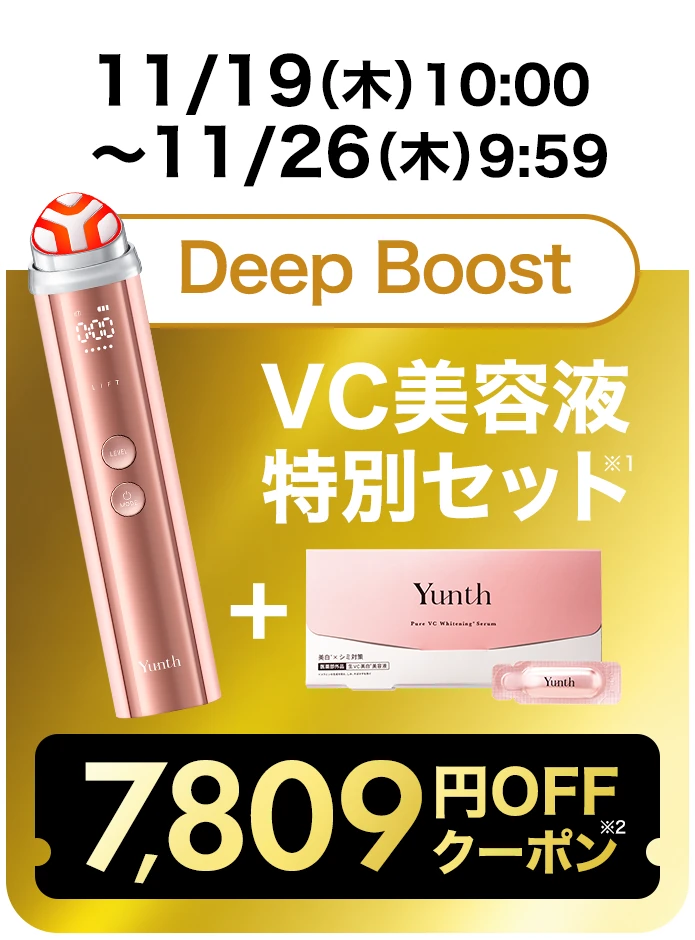
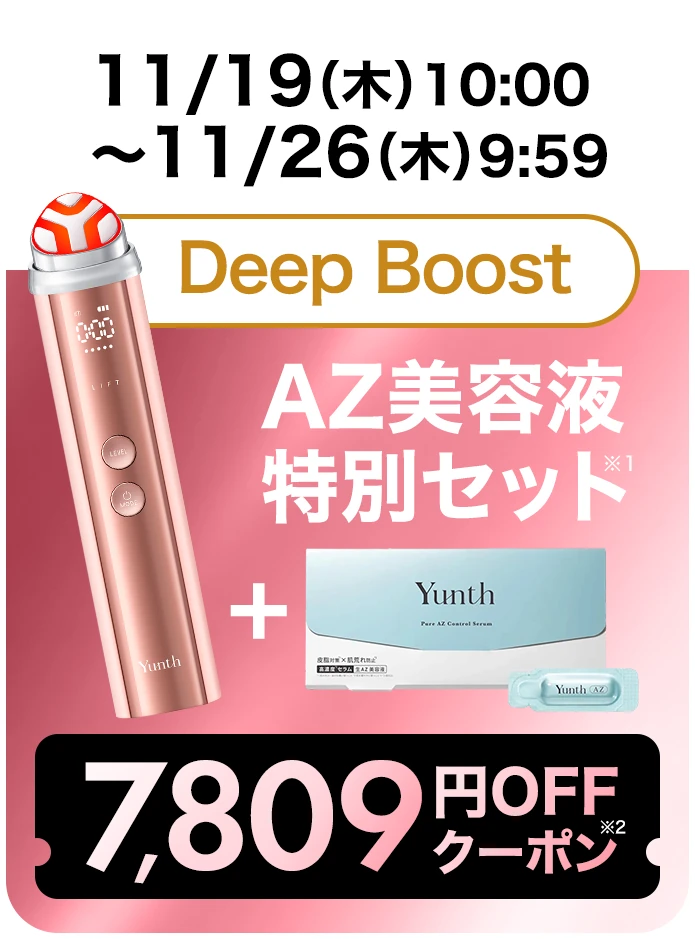
fix: FV下の2枚を作り直した画像に差し替え

diff --git a/index-pink.html b/index-pink.html
@@ -913,8 +913,8 @@ body{padding-bottom:calc(58px + env(safe-area-inset-bottom,0px))}
 
 <!-- ▼ FV下: 2つの目玉 -->
 <nav class="fv-cards" aria-label="目玉企画">
-  <a class="fv-card is-img" href="#vc"><img src="images/fv-card-vc.webp" alt="11/19(木)10:00〜11/20(金)9:59 生VC美白美容液 ポイント20倍" width="695" height="940"></a>
-  <a class="fv-card is-img" href="#combo"><img src="images/fv-card-device.webp?v=2" alt="11/19(木)10:00〜11/26(木)9:59 Deep Boost 生VC美白美容液特別セット 7,809円OFFクーポン" width="695" height="940"></a>
+  <a class="fv-card is-img" href="#vc"><img src="images/fv-card-vc.webp?v=2" alt="11/19(木)10:00〜11/20(金)9:59 生VC美白美容液 ポイント20倍" width="695" height="940"></a>
+  <a class="fv-card is-img" href="#combo"><img src="images/fv-card-device.webp?v=3" alt="11/19(木)10:00〜11/26(木)9:59 Deep Boost AZ美容液特別セット 7,809円OFFクーポン" width="695" height="940"></a>
   <ul class="fv-cards-note">
     <li>※エントリー・購入条件あり。獲得ポイントには上限があります。</li>
     <li>※1 【公式】Yunth Store楽天市場店でご購入に限り、お一人様1点限り。</li>
